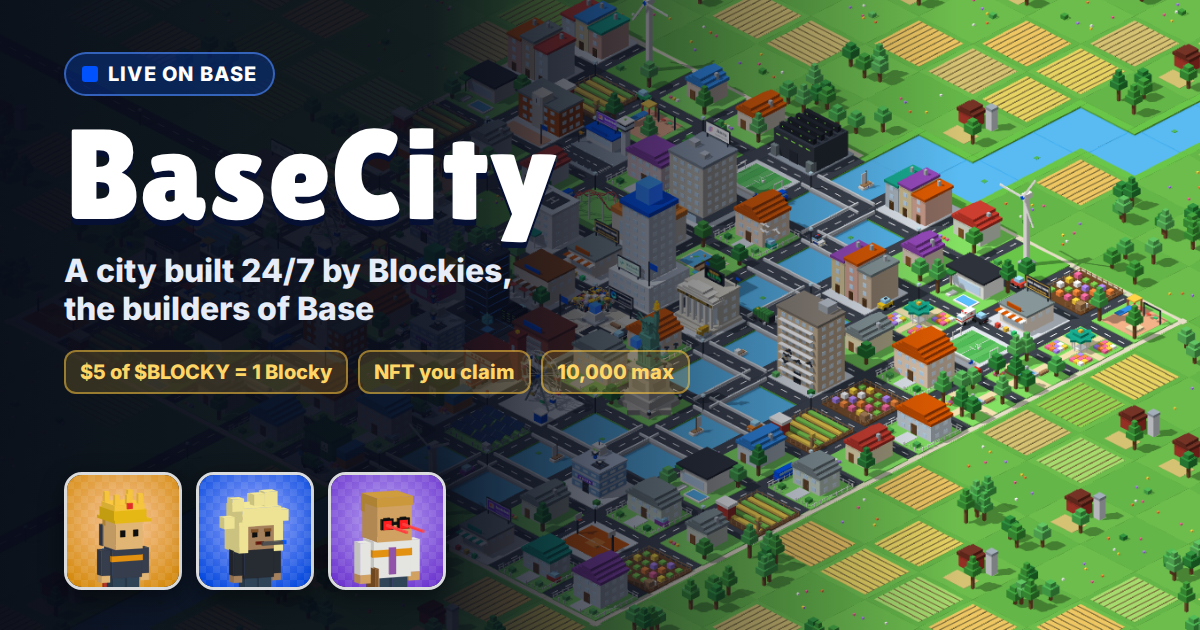
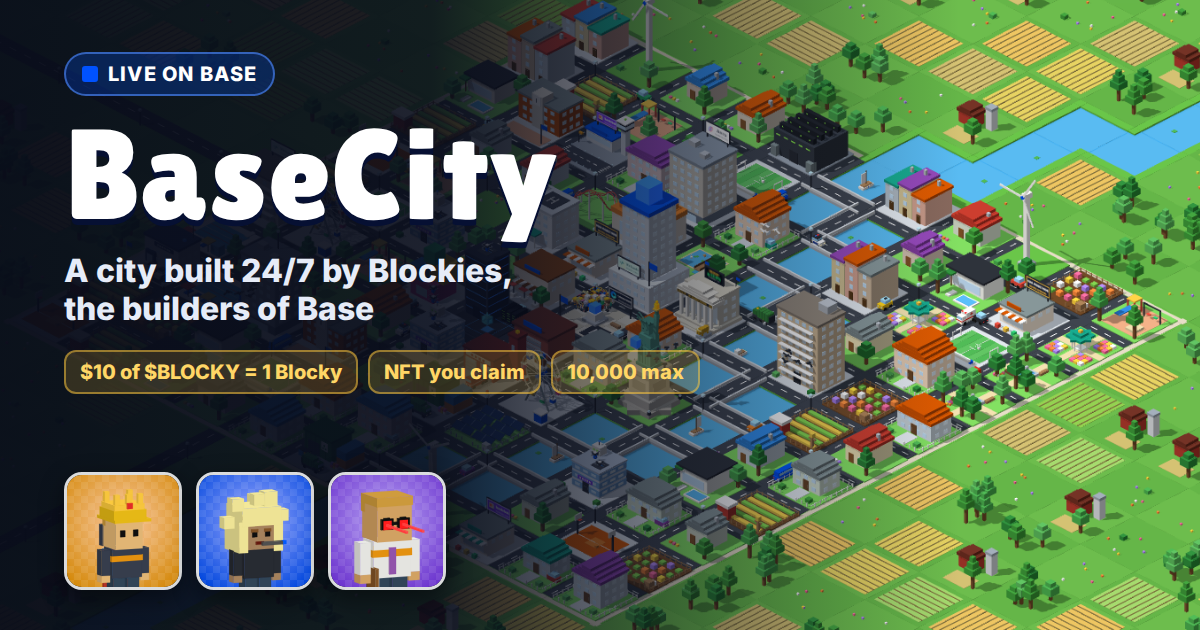
One flat price: $10 of $BLOCKY = 1 Blocky
$5 filled the 10,000 too fast and made Blockies trivial to farm; a price that
steps up is hard to market. One number, usdPerBlocky in src/config.js
(USD_PER_BLOCKY overrides it): every $10 a wallet buys, added up, earns a
Blocky. Each buy is credited at the price of its day, so changing the price
later only affects later buys. The pages read the price from the config at
build time (%PRICE%), the HUD and ticker show it, the claim page shows how
much more brings the next Blocky. The share image says $10.

Also restores the README's environment variable table.

Claude-Session: https://claude.ai/code/session_01P7eW4kqwJ6Ks2p8phBK32A

Changed region(s): [[0.0617, 0.5429, 0.5858, 0.6333]]

diff --git a/src/main.js b/src/main.js
@@ -22,8 +22,8 @@ const plural = CONFIG.citizenPlural || `${CONFIG.citizen}s`;
 const HOUR = 3600000;
 const size = (L) => `${2 * L + 1}×${2 * L + 1}`;
 const short = (a) => (a ? `${a.slice(0, 6)}…${a.slice(-4)}` : '');
-const PER = CONFIG.usdPerBlocky;
 const money = (v) => (v >= 1000 ? `$${v / 1000}k` : `$${v}`);
+let price = CONFIG.usdPerBlocky; // USD of $BLOCKY per Blocky (the API's)
 const badge = (b) => (b.kind === 'legend' ? '★ ' : b.rarity && b.rarity.id !== 'common' && b.rarity.id !== 'uncommon' ? '✨ ' : '');
 const rareText = (b) => (b.trait ? `${b.rarity.label} · ${TRAIT_LABEL[b.trait]}` : '');
 function dur(ms) {
@@ -69,21 +69,21 @@ if (CONFIG.tokenAddress) {
 }
 
 const CAPTIONS = [
-  `Every <em>${money(PER)}</em> of ${CONFIG.ticker} you buy brings <em>1 ${CONFIG.citizen}</em> to the city`,
-  `Only <em>${fmt(CONFIG.supply)}</em> ${plural} will ever exist`,
+  () => `Every <em>${money(price)}</em> of ${CONFIG.ticker} you buy brings <em>1 ${CONFIG.citizen}</em>, an NFT`,
+  `At most <em>${fmt(CONFIG.supply)}</em> ${plural} live in the city`,
   `<em>1%</em> of ${plural} are Legendary: Diamond Skin or a Crown`,
   `Real Base builders build here as <em>Base Builders</em>`,
   `A <em>${money(CONFIG.whaleUsd)}+</em> buy builds a fountain with your name`,
   `Every buy shows up in the <em>city log</em>`,
   `${plural} build <em>24/7</em>, even when no one is watching`,
   `Land full? More ${plural} <em>expand the land</em>`,
-  `The ${plural} are <em>simulated</em>. The buys are <em>real</em>.`,
+  `Every ${CONFIG.citizen} is an <em>NFT</em> its wallet claims`,
 ];
 let capIdx = 0;
 function rotateCaption() {
   const el = $('caption');
   el.style.opacity = 0;
-  setTimeout(() => { el.innerHTML = CAPTIONS[capIdx++ % CAPTIONS.length]; el.style.opacity = 1; }, 400);
+  setTimeout(() => { const c = CAPTIONS[capIdx++ % CAPTIONS.length]; el.innerHTML = typeof c === 'function' ? c() : c; el.style.opacity = 1; }, 400);
 }
 rotateCaption();
 setInterval(rotateCaption, 4500);
@@ -244,7 +244,7 @@ function nextUnlockText() {
   $('goal-count').textContent = next ? `${fmt(minted)}/${fmt(next.at)}` : '';
   $('bar-fill').style.width = `${next ? (minted / next.at) * 100 : 100}%`;
   const left = Math.max(0, supply - minted);
-  $('next-unlock').innerHTML = `Land ${size(sim.land)} · ${left ? `<b>${fmt(left)}</b> of ${fmt(supply)} ${plural} left` : `all ${fmt(supply)} ${plural} are here`}`;
+  $('next-unlock').innerHTML = `Land ${size(sim.land)} · ${left ? `<b>${fmt(left)}</b> of ${fmt(supply)} ${plural} left` : `all ${fmt(supply)} ${plural} are here`} · <b>${money(price)}</b> per ${CONFIG.citizen}`;
 }
 
 function applyState(s, first) {
@@ -258,6 +258,7 @@ function applyState(s, first) {
 
   if (!first && s.boughtUsd - bought > 0.0001) city.feePulse();
   bought = Math.max(bought, s.boughtUsd);
+  if (typeof s.price === 'number') price = s.price;
   supply = s.supply || supply;
   if (s.market) { market = s.market; weather.setMarket(market); }
   updateBoards({ market, population: Math.max(minted, s.minted || 0) });
@@ -498,7 +499,7 @@ $('card-pfp-dl').onclick = () => selected && downloadPfp(selected.b);
 
 $('share').onclick = () => {
   const url = CONFIG.siteUrl || location.origin;
-  const text = `${CONFIG.cityName}: ${sim.buildingCount} buildings on ${size(sim.land)} land, built 24/7 by ${fmt(minted)} of ${fmt(supply)} ${plural} and ${CONFIG.legends?.length || 0} Base builders. Every ${money(PER)} of ${CONFIG.ticker} you buy brings a ${CONFIG.citizen}.`
+  const text = `${CONFIG.cityName}: ${sim.buildingCount} buildings on ${size(sim.land)} land, built 24/7 by ${fmt(minted)} of ${fmt(supply)} ${plural} and ${CONFIG.legends?.length || 0} Base builders. Every ${money(price)} of ${CONFIG.ticker} you buy brings a ${CONFIG.citizen}, an NFT you claim.`
     + (CONFIG.tokenAddress ? `\n\nCA: ${CONFIG.tokenAddress}` : '');
   const via = CONFIG.xHandle ? `&via=${CONFIG.xHandle}` : '';
   open(`https://x.com/intent/tweet?text=${encodeURIComponent(text)}&url=${encodeURIComponent(url)}${via}`, '_blank', 'noopener');
@@ -620,7 +621,7 @@ function headlines() {
   const sponsors = CONFIG.sponsors || [];
   if (sponsors.length) { const sp = sponsors[Math.floor(Math.random() * sponsors.length)]; out.push(`<b>${sp.sponsored ? 'SPONSORED' : 'BUILT ON BASE'}:</b> ${sp.name}${sp.tagline ? `, ${sp.tagline}` : ''}`); }
   if (Math.random() < 0.5 || !sponsors.length) out.push(`<b>ADVERTISE:</b> put your Base project on ${CONFIG.cityName} billboards${CONFIG.adContact || CONFIG.xHandle ? `. ${CONFIG.adContact || `DM @${CONFIG.xHandle}`}` : ''}`);
-  out.push(`<b>${CONFIG.ticker}:</b> every ${money(PER)} you buy brings a ${CONFIG.citizen}; only ${fmt(supply)} will ever exist. ${money(CONFIG.whaleUsd)}+ in one buy builds a fountain with your name`);
+  out.push(`<b>${CONFIG.ticker}:</b> every ${money(price)} you buy brings a ${CONFIG.citizen} NFT; at most ${fmt(supply)} in the city. ${money(CONFIG.whaleUsd)}+ in one buy builds a fountain with your name`);
   return out;
 }
 function refreshTicker() {

diff --git a/about.html b/about.html
@@ -4,9 +4,9 @@
     <meta charset="UTF-8" />
     <meta name="viewport" content="width=device-width, initial-scale=1, viewport-fit=cover" />
     <title>How BaseCity works · BaseCity</title>
-    <meta name="description" content="How BaseCity works: every $5 of $BLOCKY brings a Blocky that builds the city 24/7 and is an NFT you claim. Rules, rarity odds, goals and the contract." />
+    <meta name="description" content="How BaseCity works: every $%PRICE% of $BLOCKY brings a Blocky that builds the city 24/7 and is an NFT you claim. Rules, rarity odds, goals and the contract." />
     <meta property="og:title" content="How BaseCity works" />
-    <meta property="og:description" content="Every $5 of $BLOCKY brings a Blocky that builds the city 24/7 and is an NFT you claim on Base." />
+    <meta property="og:description" content="Every $%PRICE% of $BLOCKY brings a Blocky that builds the city 24/7 and is an NFT you claim on Base." />
     <meta property="og:image" content="/og.png" />
     <meta name="twitter:card" content="summary_large_image" />
     <link rel="icon" href="/favicon.svg" type="image/svg+xml" />
@@ -19,13 +19,13 @@
   <body>
     <header class="top">
       <h1>How BaseCity works</h1>
-      <p class="lede">A voxel city on Base that builds itself 24/7. Every <b>$5</b> of <span class="tk">$BLOCKY</span> bought brings a Blocky, a little builder that works on the city day and night and is an NFT its wallet claims.</p>
+      <p class="lede">A voxel city on Base that builds itself 24/7. Every <b>$%PRICE%</b> of <span class="tk">$BLOCKY</span> bought brings a Blocky, a little builder that works on the city day and night and is an NFT its wallet claims.</p>
       <div class="stats-row live" id="live"></div>
     </header>
     <main class="wrap"><div class="prose">
       <h2>Blockies arrive with every buy</h2>
       <ul>
-        <li>Every <b>$<span class="per">5</span></b> of <span class="tk">$BLOCKY</span> a wallet buys brings one Blocky. Buys add up per wallet: $3 now and $2 later make one.</li>
+        <li>Every <b>$%PRICE%</b> of <span class="tk">$BLOCKY</span> a wallet buys brings one Blocky. Buys add up per wallet: two buys of half that make one.</li>
         <li>Blockies are numbered in the order they arrive (#1, #2, …) and numbers are never reused.</li>
         <li>At most <b class="supply">10,000</b> Blockies live in the city at once. When it is full, new buyers join a waitlist and get the next free places, first come first served.</li>
         <li>A single buy of <b>$<span class="whale">1,000</span>+</b> also builds a <b>Whale Fountain</b> in the city, signed with the buyer's wallet.</li>
@@ -60,7 +60,7 @@
       <h3>Do I have to claim?</h3>
       <p>No. Your Blockies build the city either way. Claiming makes them NFTs in your wallet, ready to trade once the collection unlocks.</p>
       <h3>I bought but see no Blocky</h3>
-      <p>Buys show up within a minute. Check that you bought at least $<span class="per">5</span> in total from the wallet you connect, and that you still hold the <span class="tk">$BLOCKY</span>. If the city is full, you are on the waitlist.</p>
+      <p>Buys show up within a minute. Check that you bought at least $%PRICE% in total from the wallet you connect, and that you still hold the <span class="tk">$BLOCKY</span>. If the city is full, you are on the waitlist.</p>
       <h3>When can I trade my Blockies?</h3>
       <p>When all <span class="supply">10,000</span> are claimed. The lock keeps the claim fair: nobody can farm Blockies, dump the token and sell the NFTs.</p>
       <h3>Do NFT holders earn anything?</h3>

diff --git a/src/ledger.js b/src/ledger.js
@@ -3,7 +3,8 @@
 // follow exactly the same rules:
 //
 // - Every `per` USD a wallet buys (added up per wallet) earns one Blocky, numbered in order: #1, #2, ...
-//   Numbers are never reused.
+//   Each buy counts at the price of its day (fractions carry over), so changing `per` only affects
+//   later buys. Numbers are never reused.
 // - At most `supply` Blockies live in the city at once.
 // - A wallet keeps the share of its Blockies that matches the share of its bought $BLOCKY it still
 //   holds: sell half, and the newest half of its Blockies leave the city. Any real sell costs at least
@@ -31,7 +32,7 @@ export function rollSeed(n, source) {
 }
 
 export function newLedger(start) {
-  return { v: 4, start, bought: 0, wallets: [], acct: {}, blockies: [], departures: [], waiting: [], whales: [], recent: [] };
+  return { v: 5, start, bought: 0, wallets: [], acct: {}, blockies: [], departures: [], waiting: [], whales: [], recent: [] };
 }
 
 function indexOf(L, addr) {
@@ -41,11 +42,11 @@ function indexOf(L, addr) {
   return L._index.get(a);
 }
 const sec = (L, ms) => Math.round((ms - L.start) / 1000);
-const account = (L, wi) => (L.acct[wi] ||= { usd: 0, tin: 0, tout: 0, bal: null, ids: [] });
+const account = (L, wi) => (L.acct[wi] ||= { usd: 0, credits: 0, tin: 0, tout: 0, bal: null, ids: [] });
 
 // How many Blockies a wallet may keep right now.
-export function allowance(a, per) {
-  const earned = Math.floor(a.usd / per + 1e-9);
+export function allowance(a) {
+  const earned = Math.floor((a.credits || 0) + 1e-9);
   if (!(a.tin > 0) || earned === 0) return 0;
   let held = (a.tin - a.tout) / a.tin;
   if (a.bal != null) held = Math.min(held, a.bal / a.tin); // tokens moved away count as sold
@@ -57,7 +58,7 @@ function rebalance(L, at, cfg, touched, source) {
   const added = {}, left = {}, s = sec(L, at);
   // 1. wallets that sold lose their newest Blockies
   for (const wi of touched) {
-    const a = L.acct[wi], keep = allowance(a, cfg.per);
+    const a = L.acct[wi], keep = allowance(a);
     while (!L.frozen && a.ids.length > keep) {
       const n = a.ids.pop();
       L.blockies[n - 1][2] = s;
@@ -70,7 +71,7 @@ function rebalance(L, at, cfg, touched, source) {
   let active = L.blockies.length - L.departures.length;
   while (L.waiting.length && active < cfg.supply) {
     const wi = L.waiting[0], a = L.acct[wi];
-    if (a.ids.length >= allowance(a, cfg.per)) { L.waiting.shift(); continue; }
+    if (a.ids.length >= allowance(a)) { L.waiting.shift(); continue; }
     const n = L.blockies.length + 1;
     L.blockies.push([wi, s, null, rollSeed(n, source)]);
     a.ids.push(n);
@@ -84,7 +85,7 @@ function rebalance(L, at, cfg, touched, source) {
 export function applyTrade(L, t, cfg) {
   const wi = indexOf(L, t.who), a = account(L, wi);
   if (t.kind === 'buy') {
-    a.usd += t.usd; a.tin += t.tokens; L.bought += t.usd;
+    a.usd += t.usd; a.credits = (a.credits || 0) + t.usd / cfg.per; a.tin += t.tokens; L.bought += t.usd;
     if (t.usd >= cfg.whaleUsd) L.whales.push({ from: L.wallets[wi], usd: cents(t.usd), at: t.at, tx: t.tx });
   } else {
     a.tout += t.tokens;
@@ -123,6 +124,7 @@ export function walletBlockies(L, addr) {
 export function snapshot(L, cfg, since = 0, dsince = 0) {
   const ms = (s) => (s == null ? null : L.start + s * 1000);
   return {
+    price: cfg.per, // USD of $BLOCKY per Blocky
     minted: L.blockies.length - L.departures.length, // in the city now
     issued: L.blockies.length,
     departed: L.departures.length,

diff --git a/claim.html b/claim.html
@@ -4,9 +4,9 @@
     <meta charset="UTF-8" />
     <meta name="viewport" content="width=device-width, initial-scale=1, viewport-fit=cover" />
     <title>Claim your Blockies · BaseCity</title>
-    <meta name="description" content="Every $5 of $BLOCKY you buy brings a Blocky to BaseCity. Claim your Blockies as NFTs on Base." />
+    <meta name="description" content="Every $%PRICE% of $BLOCKY you buy brings a Blocky to BaseCity. Claim your Blockies as NFTs on Base." />
     <meta property="og:title" content="Claim your Blockies · BaseCity" />
-    <meta property="og:description" content="Every $5 of $BLOCKY you buy brings a Blocky to BaseCity. Claim them as NFTs on Base." />
+    <meta property="og:description" content="Every $%PRICE% of $BLOCKY you buy brings a Blocky to BaseCity. Claim them as NFTs on Base." />
     <meta property="og:image" content="/og.png" />
     <meta name="twitter:card" content="summary_large_image" />
     <link rel="icon" href="/favicon.svg" type="image/svg+xml" />
@@ -19,7 +19,7 @@
   <body>
     <header class="top">
       <h1>Claim your Blockies</h1>
-      <p class="lede">Every <b>$5</b> of <span class="tk">$BLOCKY</span> a wallet buys brings one Blocky to BaseCity. Each Blocky is an NFT on Base that the wallet claims itself: you send the claim and pay the gas, a few cents.</p>
+      <p class="lede">Every <b>$%PRICE%</b> of <span class="tk">$BLOCKY</span> a wallet buys brings one Blocky to BaseCity. Each Blocky is an NFT on Base that the wallet claims itself: you send the claim and pay the gas, a few cents.</p>
     </header>
     <main class="wrap claim">
       <div id="status" class="note" role="status"></div>
@@ -51,7 +51,7 @@
       <section class="panel rules">
         <h2>How it works</h2>
         <ol>
-          <li><b>Buy, get Blockies.</b> Every $5 of <span class="tk">$BLOCKY</span> a wallet buys, added up over all its buys, brings one Blocky to the city, numbered in order. At most <span class="supply">10,000</span> live in the city.</li>
+          <li><b>Buy, get Blockies.</b> Every $%PRICE% of <span class="tk">$BLOCKY</span> a wallet buys, added up over all its buys, brings one Blocky to the city, numbered in order. At most <span class="supply">10,000</span> live in the city.</li>
           <li><b>Claim.</b> Connect that wallet and claim: the Blockies are minted to it as BaseCity Blockies (BCB) NFTs. You pay the gas.</li>
           <li><b>Hold to stay.</b> Sell <span class="tk">$BLOCKY</span> and the same share of your Blockies leaves the city, newest first, even if claimed. Their places go to the next buyers.</li>
           <li><b>Locked until <span class="supply">10,000</span>.</b> Blockies can't be traded until all of them are claimed. Then the collection opens on OpenSea and every Blocky stays for good. 5% royalty.</li>

diff --git a/api/nft/[id].js b/api/nft/[id].js
@@ -52,7 +52,7 @@ function metadata(b, sim, site) {
   ];
   return {
     name: b.name,
-    description: `${b.name} is one of the ${NFT.name}: the builders of ${CONFIG.cityName}, a voxel city on Base that grows 24/7 with every ${CONFIG.ticker} buy. Every $${CONFIG.usdPerBlocky} a wallet buys brings one Blocky, up to ${LEDGER.supply.toLocaleString('en-US')}. Brought by ${short(b.from)}, ${here ? `it has placed ${blocks.toLocaleString('en-US')} blocks so far` : `it placed ${blocks.toLocaleString('en-US')} blocks before leaving`}.`,
+    description: `${b.name} is one of the ${NFT.name}: the builders of ${CONFIG.cityName}, a voxel city on Base that grows 24/7 with every ${CONFIG.ticker} buy. Every $${LEDGER.per} of ${CONFIG.ticker} a wallet buys brings one Blocky, up to ${LEDGER.supply.toLocaleString('en-US')} at once. Brought by ${short(b.from)}, ${here ? `it has placed ${blocks.toLocaleString('en-US')} blocks so far` : `it placed ${blocks.toLocaleString('en-US')} blocks before leaving`}.`,
     image: `${site}/api/nft/${b.id}.svg?v=${b.seed ?? 0}`,
     external_url: `${site}/collection.html#${b.id}`,
     background_color: '0b1020',
@@ -64,7 +64,7 @@ function collection(site) {
   return {
     name: NFT.name,
     symbol: NFT.symbol,
-    description: `${NFT.name} (${NFT.symbol}): the builders of ${CONFIG.cityName}, a voxel city on Base built 24/7. Every $${CONFIG.usdPerBlocky} of ${CONFIG.ticker} a wallet buys brings one Blocky to the city, and the buyer claims it as an NFT. At most ${LEDGER.supply.toLocaleString('en-US')} live in the city; sell your ${CONFIG.ticker} before the collection unlocks and your Blockies leave. Transfers open once all ${LEDGER.supply.toLocaleString('en-US')} are claimed.`,
+    description: `${NFT.name} (${NFT.symbol}): the builders of ${CONFIG.cityName}, a voxel city on Base built 24/7. Every $${LEDGER.per} of ${CONFIG.ticker} a wallet buys brings one Blocky to the city, and the buyer claims it as an NFT. At most ${LEDGER.supply.toLocaleString('en-US')} live in the city; sell your ${CONFIG.ticker} before the collection unlocks and your Blockies leave. Transfers open once all ${LEDGER.supply.toLocaleString('en-US')} are claimed.`,
     image: `${site}/api/nft/collection.svg`,
     featured_image: `${site}/api/nft/collection.svg`,
     banner_image: `${site}/og.png`,

diff --git a/collection.html b/collection.html
@@ -4,9 +4,9 @@
     <meta charset="UTF-8" />
     <meta name="viewport" content="width=device-width, initial-scale=1, viewport-fit=cover" />
     <title>The Blockies · BaseCity</title>
-    <meta name="description" content="Every Blocky building BaseCity: one for every $5 of $BLOCKY bought, up to 10,000. Rarity, owners, blocks placed. Each one is an NFT on Base." />
+    <meta name="description" content="Every Blocky building BaseCity: one for every $%PRICE% of $BLOCKY bought, up to 10,000. Rarity, owners, blocks placed. Each one is an NFT on Base." />
     <meta property="og:title" content="The Blockies · BaseCity" />
-    <meta property="og:description" content="One Blocky for every $5 of $BLOCKY bought, up to 10,000. Each one builds BaseCity 24/7 and is an NFT on Base." />
+    <meta property="og:description" content="One Blocky for every $%PRICE% of $BLOCKY bought, up to 10,000. Each one builds BaseCity 24/7 and is an NFT on Base." />
     <meta property="og:image" content="/og.png" />
     <meta name="twitter:card" content="summary_large_image" />
     <link rel="icon" href="/favicon.svg" type="image/svg+xml" />
@@ -19,7 +19,7 @@
   <body>
     <header class="top">
       <h1>The Blockies</h1>
-      <p class="lede">Every <b>$5</b> of <span class="tk">$BLOCKY</span> a wallet buys brings one Blocky to BaseCity, up to <b class="supply">10,000</b> at once. They build the city 24/7, and each one is an NFT its wallet claims: <a href="/claim.html">claim yours →</a></p>
+      <p class="lede">Every <b>$%PRICE%</b> of <span class="tk">$BLOCKY</span> a wallet buys brings one Blocky to BaseCity, up to <b class="supply">10,000</b> at once. They build the city 24/7, and each one is an NFT its wallet claims: <a href="/claim.html">claim yours →</a></p>
     </header>
     <main class="wrap coll">
       <div class="stats-row" id="stats"></div>

diff --git a/api/colony.js b/api/colony.js
@@ -7,7 +7,7 @@
 // D (clients poll with the counts they have).
 //
 // COUNT_MODE=buys (default): the Blocky ledger (src/ledger.js). Every $USD_PER_BLOCKY of $BLOCKY a
-//   wallet buys (added up per wallet) brings one Blocky, up to MAX_SUPPLY in the city at once. A
+//   wallet buys (added up per wallet) earns one Blocky, up to MAX_SUPPLY in the city at once. A
 //   wallet keeps the share of its Blockies that matches the share of its bought $BLOCKY it still
 //   holds; sellers' Blockies leave and their places go to the next wallets in line. A single buy of
 //   WHALE_USD+ also builds a Whale Fountain. Trades come from the pool's public trade feed
@@ -33,7 +33,7 @@ import { env, TOKEN, LEDGER, LAUNCH, NFT, client, kv, useKv, KEY_BASE, loadLedge
 import { CLAIM_ABI } from './_sig.js';
 
 const MODE = env.COUNT_MODE || 'buys';
-const FEE_PER = LEDGER.per;
+const FEE_PER = Number(env.FEE_PER_CITIZEN || LEDGER.per); // fee mode: USD of fees per Blocky
 const SUPPLY = LEDGER.supply;
 const MIN_BUY = Number(env.MIN_BUY_USD || 1);
[1 lines of base64/hex data omitted]
@@ -274,7 +274,7 @@ async function market() {
 
 async function compute() {
   const [body, mkt] = await Promise.all([MODE === 'fees' ? computeFees() : computeBuys(), market()]);
-  return { ...body, market: mkt, mode: MODE, usdPerBlocky: FEE_PER, feePerCitizen: FEE_PER, updatedAt: Date.now() };
+  return { ...body, market: mkt, mode: MODE, ...(MODE === 'fees' ? { price: FEE_PER, usdPerBlocky: FEE_PER, feePerCitizen: FEE_PER } : {}), updatedAt: Date.now() };
 }
 
 export default async function handler(req, res) {

diff --git a/api/claim.js b/api/claim.js
@@ -53,13 +53,13 @@ async function wallet(L, address) {
   const { active, left } = walletBlockies(L, address);
   const wi = L.wallets.indexOf(address.toLowerCase());
   const a = wi >= 0 ? L.acct[wi] : null;
-  return { a, active, left, owed: a ? Math.max(0, allowance(a, LEDGER.per) - a.ids.length) : 0 };
+  return { a, active, left, owed: a ? Math.max(0, allowance(a) - a.ids.length) : 0 };
 }
 async function holding(L, a, address) {
   if (L.frozen) return Infinity;
   const decimals = L.decimals ?? Number(await client.readContract({ address: TOKEN, abi: erc20Abi, functionName: 'decimals' }));
   const bal = Number(await client.readContract({ address: TOKEN, abi: erc20Abi, functionName: 'balanceOf', args: [address] })) / 10 ** decimals;
-  return allowance({ ...a, bal }, LEDGER.per);
+  return allowance({ ...a, bal });
 }
 
 export default async function handler(req, res) {
@@ -85,8 +85,9 @@ export default async function handler(req, res) {
         chainId: CHAIN_ID,
         open: Boolean(NFT && SIGNER),
         unlocked,
-        usdPerBlocky: LEDGER.per,
+        price: LEDGER.per, // USD of $BLOCKY per Blocky
         boughtUsd: Math.round((w.a?.usd ?? 0) * 100) / 100,
+        toNext: Math.round((1 - ((w.a?.credits ?? 0) % 1)) * LEDGER.per * 100) / 100, // USD more for the next Blocky
         blockies: w.active.map((n) => ({ n, at: atOf(n), seed: seedOf(n), claimed: claimed.has(n) })),
         left: w.left.map((n) => ({ n, at: atOf(n), seed: seedOf(n) })),
         waiting: w.owed, // owed a place: the city is full

diff --git a/src/claim.js b/src/claim.js
@@ -134,8 +134,8 @@ function tile(entry, gone) {
 function render(j) {
   const list = j?.blockies || [], left = j?.left || [];
   const claimed = list.filter((x) => x.claimed).length, unclaimed = list.length - claimed;
-  const per = j?.usdPerBlocky || CONFIG.usdPerBlocky, usd = j?.boughtUsd || 0;
-  const toNext = per - (usd % per);
+  const price = j?.price || CONFIG.usdPerBlocky, usd = j?.boughtUsd || 0;
+  const toNext = j?.toNext ?? price;
   $('mystats').innerHTML = !j ? '' : [
     [`${CONFIG.citizenPlural} in the city`, fmt(list.length)],
     ['Claimed', fmt(claimed)],
@@ -151,7 +151,7 @@ function render(j) {
   for (const x of list) tiles.appendChild(tile(x, false));
   for (const x of left) gone.appendChild(tile(x, true));
   $('gone-title').hidden = !left.length;
-  if (j && !list.length) tiles.innerHTML = `<p class="empty-mine">No ${CONFIG.citizenPlural} for this wallet yet. Every $${per} of ${CONFIG.ticker} it buys brings one${CONFIG.buyUrl ? `: <a href="${CONFIG.buyUrl}" target="_blank" rel="noopener">buy ${CONFIG.ticker}</a>` : ''}.</p>`;
+  if (j && !list.length) tiles.innerHTML = `<p class="empty-mine">No ${CONFIG.citizenPlural} for this wallet yet. Every $${price} of ${CONFIG.ticker} it buys brings one${CONFIG.buyUrl ? `: <a href="${CONFIG.buyUrl}" target="_blank" rel="noopener">buy ${CONFIG.ticker}</a>` : ''}.</p>`;
 
   const btn = $('claim');
   const mineNow = account && viewing && account.toLowerCase() === viewing.toLowerCase();

diff --git a/index.html b/index.html
@@ -4,9 +4,9 @@
     <meta charset="UTF-8" />
     <meta name="viewport" content="width=device-width, initial-scale=1, viewport-fit=cover" />
     <title>BaseCity · a city built 24/7 by Blockies, the builders of Base</title>
-    <meta name="description" content="A voxel city on Base, built 24/7 by Blockies. Every $5 of $BLOCKY bought brings a Blocky, an NFT its wallet claims. 10,000 max." />
+    <meta name="description" content="A voxel city on Base, built 24/7 by Blockies. Every $%PRICE% of $BLOCKY bought brings a Blocky, an NFT its wallet claims. 10,000 max." />
     <meta property="og:title" content="BaseCity" />
-    <meta property="og:description" content="A city built 24/7 by Blockies, the builders of Base. Every $5 of $BLOCKY brings a Blocky: it builds the city and it's an NFT you claim." />
+    <meta property="og:description" content="A city built 24/7 by Blockies, the builders of Base. Every $%PRICE% of $BLOCKY brings a Blocky: it builds the city and it's an NFT you claim." />
     <meta property="og:image" content="/og.png" />
     <meta name="twitter:card" content="summary_large_image" />
     <link rel="icon" href="/favicon.svg" type="image/svg+xml" />

diff --git a/src/config.js b/src/config.js
@@ -6,9 +6,10 @@ export const CONFIG = {
   tagline: 'A city built 24/7 by Blockies, the builders of Base',
   citizen: 'Blocky', // one inhabitant (a builder on Base)
   citizenPlural: 'Blockies',
-  // Every $5 of $BLOCKY a wallet buys (added up per wallet) brings one Blocky to the city: Blocky #1,
-  // #2, ... up to `supply`, then no more. Each one is meant to become that wallet's NFT.
-  usdPerBlocky: 5, // must match USD_PER_BLOCKY on the API
+  // Every `usdPerBlocky` of $BLOCKY a wallet buys (added up over all its buys) earns one Blocky: #1, #2,
+  // ... Each one is an NFT the wallet claims. A buy counts at the price of its day, so changing the
+  // price later only changes future buys. (USD_PER_BLOCKY on the API overrides it.)
+  usdPerBlocky: 10,
   supply: 10000, // must match MAX_SUPPLY on the API
   whaleUsd: 1000, // a single buy this big also builds a Whale Fountain signed with the wallet (WHALE_USD on the API)
   blockySkill: 1, // work speed of a Blocky

diff --git a/api/_store.js b/api/_store.js
@@ -12,7 +12,7 @@ export const env = process.env;
 export const RPC = env.BASE_RPC_URL || 'https://mainnet.base.org';
 export const TOKEN = (env.TOKEN_ADDRESS || '0xE72A0C42b584a3E7A4503a82D1337dEB52adE885').toLowerCase();
 export const LEDGER = {
-  per: Number(env.USD_PER_BLOCKY || env.FEE_PER_CITIZEN || 5),
+  per: Number(env.USD_PER_BLOCKY || CONFIG.usdPerBlocky), // USD of $BLOCKY per Blocky
   supply: Number(env.MAX_SUPPLY || 10000),
   whaleUsd: Number(env.WHALE_USD || 1000),
 };
@@ -26,7 +26,7 @@ export const client = createPublicClient({ chain: base, transport: http(RPC, { r
 const KV_URL = env.KV_REST_API_URL || env.UPSTASH_REDIS_REST_URL;
 const KV_TOKEN = env.KV_REST_API_TOKEN || env.UPSTASH_REDIS_REST_TOKEN;
 export const KEY_BASE = env.KV_KEY || 'blocky:colony';
-const LEDGER_KEY = `${KEY_BASE}:ledger:v4`;
+const LEDGER_KEY = `${KEY_BASE}:ledger:v5`;
 export const useKv = () => Boolean(KV_URL && KV_TOKEN);
 
 export async function kv(...cmd) {
